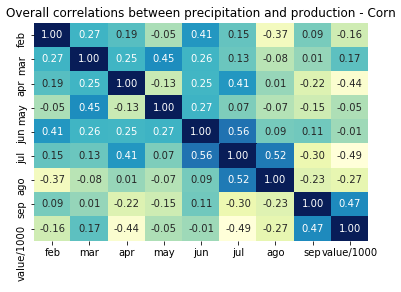
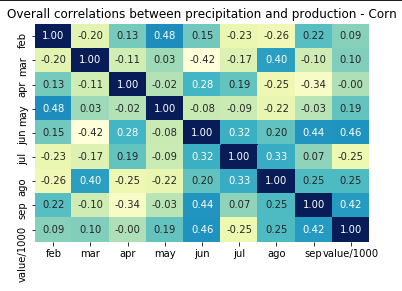
README file update

diff --git a/README.md b/README.md
@@ -52,12 +52,42 @@ A group project via the Rice University FinTech Bootcamp to demonstrate "FinTech
 
 * Precipitation vs Production
 
-* ![Precipation vs Production](./images/corn_aprt_vs_prod.png)
+* <p float="left">
+  <img src="./images/prec_corr.png" width="400" height="290"/>
+  <img src="./images/precp_corr_color_scale.png" width="75"height="290" /> 
+  
+</p>
+
 
 * ETF vs Futures rolling correlation
 
 * ![Precipation vs Production](./images/jg_fig_temp.png)
 
+---
+## **Postgress Database and Table Seedings** 
+- Weather clean API data was further transfered into Postgress SQL (library psycopg2) to analyze each month temperature and precipitation correlations vs annual corn production.
+- These conditions along with corn production tables are accessed via queries from the notebook analy_hcb.ipynb
+- To generate tables and seed the data that feed those queries, the following steps need to be performed (in order):
+### - Step 1: 
+- This step will create a postgresql database named: crop_prod_db in your default PostgreSQL server and it will create 6 tables: crop_name, crop_production_total(note 1),precipitations, states,temperatures and yearly_crop_productions. It consists of two parts:
+- Part a: Place postgreSQL user name and password in your environment file. Name the username: POSTGRES_USER_ID, and the password: POSTGRES_PASSWORD.
+- Part b: Activate the psycopg2 environment and run the notebook createsqldb.ipynb: After completing this step you would have postgresql database named: crop_prod_db along with the 6 tables mentioned above, and the 2 junction tables (states and crop_name) would be populated.
+
+<p float="left">
+  <img src="./images/sql_crop_name.png" width="250" height="220"/>
+  <img src="./images/sql_table_states.png" width="400"height="220" /> 
+  
+</p>
+
+-It is worth noting that the seeding of the sql table "states" also populates a map chart used in the presentation, which reports states productions.
+
+### - Step 2:
+- This step is used to seed the tables temperatures, precipitations and yearly_crop_production with all the information extracted via API from USDA (crop production) and RCCs (weather) sources.    
+- To seed the above tables run the jupyter files in psycopg2 environment: temp_sqltable.ipynb (seeds temperatures table), prec_sqltable.ipynb (seeds precipitations table) and crop_y_prod_sqltable.ipynb (seeds the yearly_crop_production table).
+
+note 1: table crop_production_total is intended for future use.
+
+ 
 ---
 
 ## **Technologies**
@@ -99,6 +129,13 @@ A group project via the Rice University FinTech Bootcamp to demonstrate "FinTech
 - https://usda.library.cornell.edu/concern/publications/3t945q76s?locale=en
 
 - https://www.pnas.org/content/114/35/9326
+
+#### Crop Images Sources:
+Crop images used in the project presentation were provided license-free from the following photographers:
+- Kelly Sikkema: (https://unsplash.com/photos/yntEERed0SY?utm_source=unsplash&utm_medium=referral&utm_content=creditShareLink)
+- Jonathan Brinkhorst: (https://unsplash.com/photos/HoooiiyON4s?utm_source=unsplash&utm_medium=referral&utm_content=creditShareLink)
+- Daniel Schludi: (https://unsplash.com/photos/HLOWpeN68G4?utm_source=unsplash&utm_medium=referral&utm_content=creditShareLink)
+
 
 ---
 
